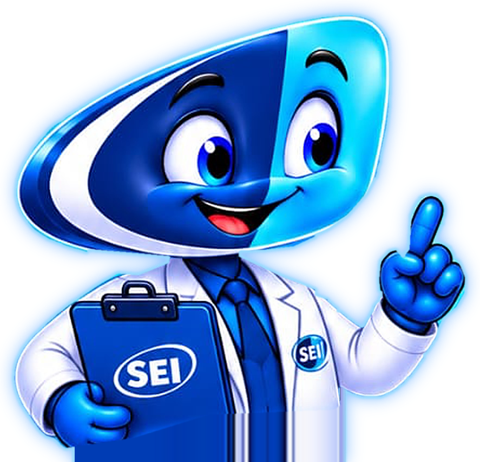
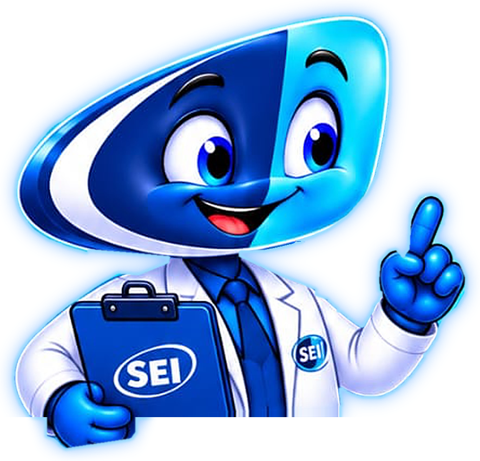
Carteirinha: mascote apoiado na faixa dourada (sem prolongamento), sem brilho ciano na cabeça; validade nos dados
Claude-Session: https://claude.ai/code/session_01EnA51XFdjbCxLqLpJXARBK

diff --git a/docs.js b/docs.js
@@ -274,9 +274,9 @@
       <img class="ct-logo" src="assets/docs/logo-sei.png?v=3" alt="">
       <div class="ct-cab"><img class="ct-selo" src="assets/docs/selo-n1.png?v=1" alt="Número 1 em aprovação"><b>CARTEIRA DE ESTUDANTE</b><em class="ct-ano">${esc(d.ano || '')}</em></div>
       <div class="ct-foto">${d.foto ? `<img src="${d.foto}" alt="">` : '<span>FOTO<br>3×4</span>'}</div>
-      <div class="ct-dados"><div class="ct-nome">${esc(d.aluno || '')}</div>${linha('Turma', tur)}<div class="ct-2">${linha('Turno', d.turno)}${linha('Matrícula', d.matricula)}</div>${linha('Nascimento', fmt(d.nasc))}</div>
-      <div class="ct-luz"></div><img class="ct-masc" src="assets/docs/mascote-sei.png?v=10" alt="">
-      <div class="ct-rod"><span>${esc(sg.toUpperCase())}</span><span>VÁLIDA ATÉ ${fmt(d.validade) || '31/12/' + (d.ano || '')}</span></div></div>`;
+      <div class="ct-dados"><div class="ct-nome">${esc(d.aluno || '')}</div>${linha('Turma', tur)}<div class="ct-2">${linha('Turno', d.turno)}${linha('Matrícula', d.matricula)}</div><div class="ct-2">${linha('Nascimento', fmt(d.nasc))}${linha('Válida até', fmt(d.validade) || '31/12/' + (d.ano || ''))}</div></div>
+      <div class="ct-luz"></div><img class="ct-masc" src="assets/docs/mascote-sei.png?v=11" alt="">
+      <div class="ct-rod"><span>${esc(sg.toUpperCase())} · ANO LETIVO ${esc(d.ano || '')}</span></div></div>`;
     const verso = `<div class="cart cart-f cart-v">${CART_BG ? `<img class="ct-bg" src="${CART_BG.v}" alt="">` : ic(4, 70, 30, 12, 5) + ic(9, 3, 41, -10, 4.5)}<div class="ct-fx ct-fx2"></div><div class="ct-vtop"><img src="assets/docs/logo-sei.png?v=3" alt=""><span>IDENTIFICAÇÃO ESCOLAR</span></div>
       <div class="ct-vd">${linha('Responsável', d.resp)}<div class="ct-2">${linha('Telefone', d.tel)}${linha('Tipo sanguíneo', d.sangue)}</div>
       <p class="ct-aviso">Documento pessoal e intransferível. Apresente sempre que solicitado. Em caso de perda, comunique a secretaria.</p>

diff --git a/calendario.html b/calendario.html
@@ -8,7 +8,7 @@
 <meta name="theme-color" content="#0b2a5b">
 <link rel="stylesheet" href="aulas.css?v=3-aval">
 <link rel="stylesheet" href="aee.css?v=18">
-<link rel="stylesheet" href="docs.css?v=40">
+<link rel="stylesheet" href="docs.css?v=42">
 <meta name="description" content="Sistema de Ensino Incentivo — Biblioteca Digital SEI. São Miguel do Guamá/PA."><meta property="og:type" content="website"><meta property="og:site_name" content="Biblioteca Digital SEI"><meta property="og:title" content="Calendário escolar · SEI"><meta property="og:description" content="Sistema de Ensino Incentivo — Biblioteca Digital SEI. São Miguel do Guamá/PA."><meta property="og:url" content="https://robarbosa301.github.io/Biblioteca-SEI/calendario.html"><meta property="og:image" content="https://robarbosa301.github.io/Biblioteca-SEI/assets/portal/previa-link.jpg?v=1"><meta property="og:image:width" content="1200"><meta property="og:image:height" content="630"><meta property="og:locale" content="pt_BR"><meta name="twitter:card" content="summary_large_image"><meta name="twitter:image" content="https://robarbosa301.github.io/Biblioteca-SEI/assets/portal/previa-link.jpg?v=1"><link rel="icon" type="image/png" href="favicon.png?v=2"><link rel="apple-touch-icon" href="assets/portal/apple-touch-icon.png?v=2">
 </head>
 <body data-setor="calendario">
@@ -25,7 +25,7 @@
 </footer>
 <div id="imprimir" class="so-print"></div>
 <script src="aulas-dados.js?v=2"></script>
-<script src="baixar-doc.js?v=24"></script><script src="folha-doc.js?v=17"></script><script src="editor-doc.js?v=3"></script><script src="docs.js?v=47"></script>
+<script src="baixar-doc.js?v=24"></script><script src="folha-doc.js?v=17"></script><script src="editor-doc.js?v=3"></script><script src="docs.js?v=48"></script>
 <script src="offline.js?v=3"></script>
 </body>
 </html>

diff --git a/coordenacao.html b/coordenacao.html
@@ -8,7 +8,7 @@
 <meta name="theme-color" content="#0b2a5b">
 <link rel="stylesheet" href="aulas.css?v=3-aval">
 <link rel="stylesheet" href="aee.css?v=18">
-<link rel="stylesheet" href="docs.css?v=40">
+<link rel="stylesheet" href="docs.css?v=42">
 <meta name="description" content="Sistema de Ensino Incentivo — Biblioteca Digital SEI. São Miguel do Guamá/PA."><meta property="og:type" content="website"><meta property="og:site_name" content="Biblioteca Digital SEI"><meta property="og:title" content="Coordenação · SEI"><meta property="og:description" content="Sistema de Ensino Incentivo — Biblioteca Digital SEI. São Miguel do Guamá/PA."><meta property="og:url" content="https://robarbosa301.github.io/Biblioteca-SEI/coordenacao.html"><meta property="og:image" content="https://robarbosa301.github.io/Biblioteca-SEI/assets/portal/previa-link.jpg?v=1"><meta property="og:image:width" content="1200"><meta property="og:image:height" content="630"><meta property="og:locale" content="pt_BR"><meta name="twitter:card" content="summary_large_image"><meta name="twitter:image" content="https://robarbosa301.github.io/Biblioteca-SEI/assets/portal/previa-link.jpg?v=1"><link rel="icon" type="image/png" href="favicon.png?v=2"><link rel="apple-touch-icon" href="assets/portal/apple-touch-icon.png?v=2">
 </head>
 <body data-setor="coordenacao">
@@ -25,7 +25,7 @@
 </footer>
 <div id="imprimir" class="so-print"></div>
 <script src="aulas-dados.js?v=2"></script>
-<script src="baixar-doc.js?v=24"></script><script src="folha-doc.js?v=17"></script><script src="editor-doc.js?v=3"></script><script src="docs.js?v=47"></script>
+<script src="baixar-doc.js?v=24"></script><script src="folha-doc.js?v=17"></script><script src="editor-doc.js?v=3"></script><script src="docs.js?v=48"></script>
 <script src="offline.js?v=3"></script>
 </body>
 </html>

diff --git a/horarios.html b/horarios.html
@@ -8,7 +8,7 @@
 <meta name="theme-color" content="#0b2a5b">
 <link rel="stylesheet" href="aulas.css?v=3-aval">
 <link rel="stylesheet" href="aee.css?v=18">
-<link rel="stylesheet" href="docs.css?v=40">
+<link rel="stylesheet" href="docs.css?v=42">
 <meta name="description" content="Sistema de Ensino Incentivo — Biblioteca Digital SEI. São Miguel do Guamá/PA."><meta property="og:type" content="website"><meta property="og:site_name" content="Biblioteca Digital SEI"><meta property="og:title" content="Horário de aula · SEI"><meta property="og:description" content="Sistema de Ensino Incentivo — Biblioteca Digital SEI. São Miguel do Guamá/PA."><meta property="og:url" content="https://robarbosa301.github.io/Biblioteca-SEI/horarios.html"><meta property="og:image" content="https://robarbosa301.github.io/Biblioteca-SEI/assets/portal/previa-link.jpg?v=1"><meta property="og:image:width" content="1200"><meta property="og:image:height" content="630"><meta property="og:locale" content="pt_BR"><meta name="twitter:card" content="summary_large_image"><meta name="twitter:image" content="https://robarbosa301.github.io/Biblioteca-SEI/assets/portal/previa-link.jpg?v=1"><link rel="icon" type="image/png" href="favicon.png?v=2"><link rel="apple-touch-icon" href="assets/portal/apple-touch-icon.png?v=2">
 </head>
 <body data-setor="horarios">
@@ -25,7 +25,7 @@
 </footer>
 <div id="imprimir" class="so-print"></div>
 <script src="aulas-dados.js?v=2"></script>
-<script src="baixar-doc.js?v=24"></script><script src="folha-doc.js?v=17"></script><script src="editor-doc.js?v=3"></script><script src="docs.js?v=47"></script>
+<script src="baixar-doc.js?v=24"></script><script src="folha-doc.js?v=17"></script><script src="editor-doc.js?v=3"></script><script src="docs.js?v=48"></script>
 <script src="offline.js?v=3"></script>
 </body>
 </html>

diff --git a/secretaria.html b/secretaria.html
@@ -8,7 +8,7 @@
 <meta name="theme-color" content="#0b2a5b">
 <link rel="stylesheet" href="aulas.css?v=3-aval">
 <link rel="stylesheet" href="aee.css?v=18">
-<link rel="stylesheet" href="docs.css?v=40">
+<link rel="stylesheet" href="docs.css?v=42">
 <meta name="description" content="Sistema de Ensino Incentivo — Biblioteca Digital SEI. São Miguel do Guamá/PA."><meta property="og:type" content="website"><meta property="og:site_name" content="Biblioteca Digital SEI"><meta property="og:title" content="Secretaria · SEI"><meta property="og:description" content="Sistema de Ensino Incentivo — Biblioteca Digital SEI. São Miguel do Guamá/PA."><meta property="og:url" content="https://robarbosa301.github.io/Biblioteca-SEI/secretaria.html"><meta property="og:image" content="https://robarbosa301.github.io/Biblioteca-SEI/assets/portal/previa-link.jpg?v=1"><meta property="og:image:width" content="1200"><meta property="og:image:height" content="630"><meta property="og:locale" content="pt_BR"><meta name="twitter:card" content="summary_large_image"><meta name="twitter:image" content="https://robarbosa301.github.io/Biblioteca-SEI/assets/portal/previa-link.jpg?v=1"><link rel="icon" type="image/png" href="favicon.png?v=2"><link rel="apple-touch-icon" href="assets/portal/apple-touch-icon.png?v=2">
 </head>
 <body data-setor="secretaria">
@@ -25,7 +25,7 @@
 </footer>
 <div id="imprimir" class="so-print"></div>
 <script src="aulas-dados.js?v=2"></script>
-<script src="baixar-doc.js?v=24"></script><script src="folha-doc.js?v=17"></script><script src="editor-doc.js?v=3"></script><script src="docs.js?v=47"></script>
+<script src="baixar-doc.js?v=24"></script><script src="folha-doc.js?v=17"></script><script src="editor-doc.js?v=3"></script><script src="docs.js?v=48"></script>
 <script src="offline.js?v=3"></script>
 </body>
 </html>

diff --git a/avisos.html b/avisos.html
@@ -8,7 +8,7 @@
 <meta name="theme-color" content="#0b2a5b">
 <link rel="stylesheet" href="aulas.css?v=3-aval">
 <link rel="stylesheet" href="aee.css?v=18">
-<link rel="stylesheet" href="docs.css?v=40">
+<link rel="stylesheet" href="docs.css?v=42">
 <meta name="description" content="Sistema de Ensino Incentivo — Biblioteca Digital SEI. São Miguel do Guamá/PA."><meta property="og:type" content="website"><meta property="og:site_name" content="Biblioteca Digital SEI"><meta property="og:title" content="Avisos · SEI"><meta property="og:description" content="Sistema de Ensino Incentivo — Biblioteca Digital SEI. São Miguel do Guamá/PA."><meta property="og:url" content="https://robarbosa301.github.io/Biblioteca-SEI/avisos.html"><meta property="og:image" content="https://robarbosa301.github.io/Biblioteca-SEI/assets/portal/previa-link.jpg?v=1"><meta property="og:image:width" content="1200"><meta property="og:image:height" content="630"><meta property="og:locale" content="pt_BR"><meta name="twitter:card" content="summary_large_image"><meta name="twitter:image" content="https://robarbosa301.github.io/Biblioteca-SEI/assets/portal/previa-link.jpg?v=1"><link rel="icon" type="image/png" href="favicon.png?v=2"><link rel="apple-touch-icon" href="assets/portal/apple-touch-icon.png?v=2">
 </head>
 <body data-setor="avisos">
@@ -25,7 +25,7 @@
 </footer>
 <div id="imprimir" class="so-print"></div>
 <script src="aulas-dados.js?v=2"></script>
-<script src="baixar-doc.js?v=24"></script><script src="folha-doc.js?v=17"></script><script src="editor-doc.js?v=3"></script><script src="docs.js?v=47"></script>
+<script src="baixar-doc.js?v=24"></script><script src="folha-doc.js?v=17"></script><script src="editor-doc.js?v=3"></script><script src="docs.js?v=48"></script>
 <script src="offline.js?v=3"></script>
 </body>
 </html>

diff --git a/docs.css b/docs.css
@@ -292,3 +292,5 @@ body.folha #imprimir .doc-2 .doc-aviso,.sei-pdf .doc-2 .doc-aviso{height:122mm}
 .ct-masc{bottom:4.4mm;height:27mm}
 .ct-masc{bottom:3.4mm;height:28mm}
 .ct-masc{bottom:3.6mm;height:30.5mm;right:-.8mm}.ct-luz{position:absolute;right:-6mm;bottom:2mm;width:40mm;height:34mm;border-radius:50%;background:radial-gradient(ellipse at center,rgba(90,180,255,.55) 0,rgba(60,140,255,.25) 40%,rgba(60,140,255,0) 70%);z-index:0}
+.ct-masc{bottom:2.15mm;height:30mm;right:.2mm;z-index:3}.ct-rod{z-index:2}.ct-luz{z-index:1}
+.ct-masc{bottom:2.43mm;height:27mm;right:-.6mm}.ct-dados{right:28mm}.ct-2{gap:.8mm}
